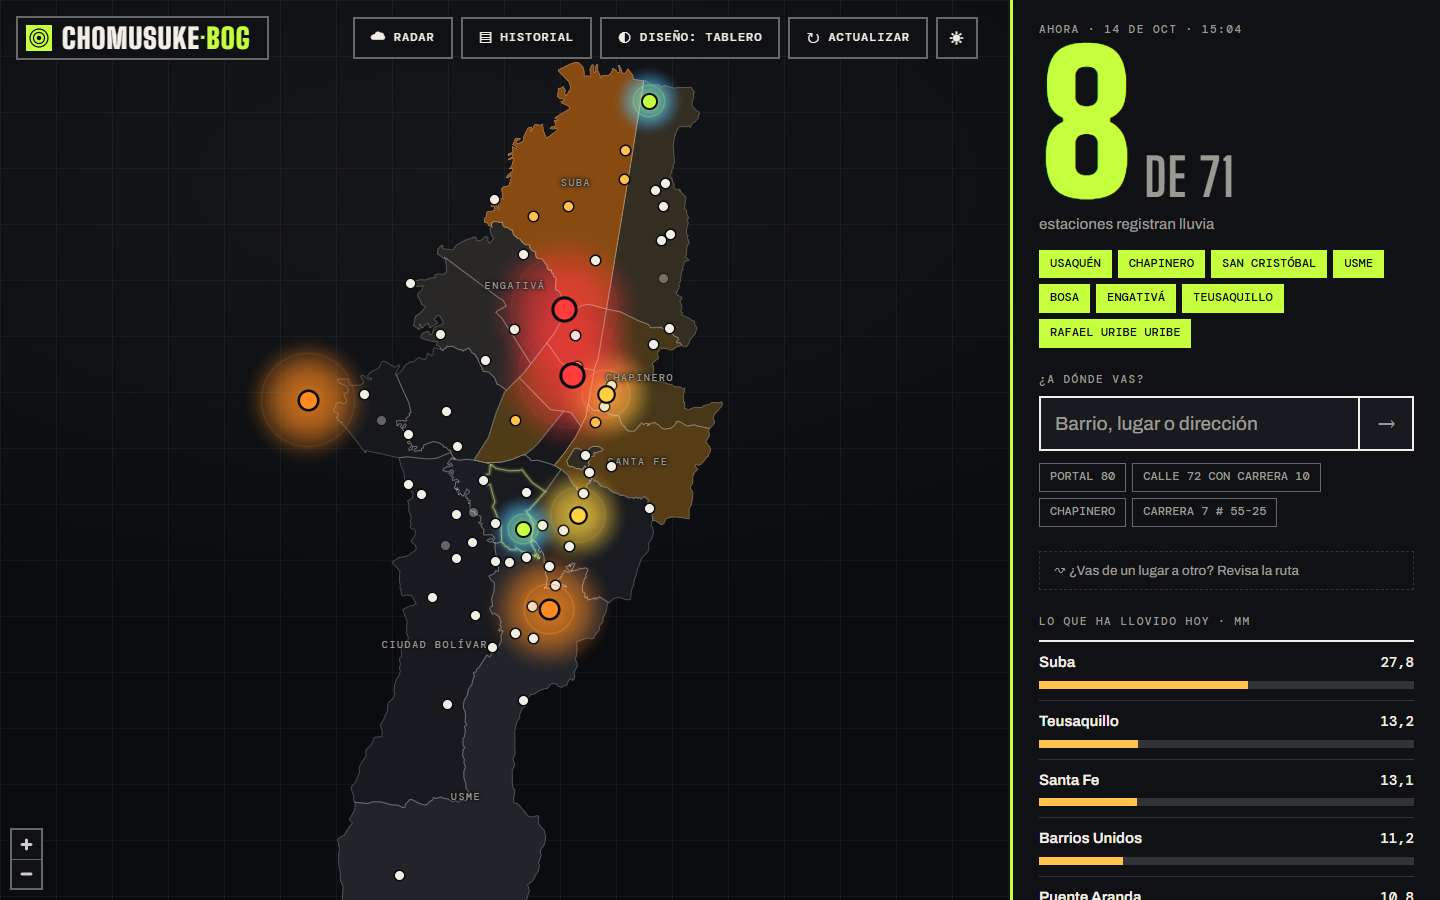
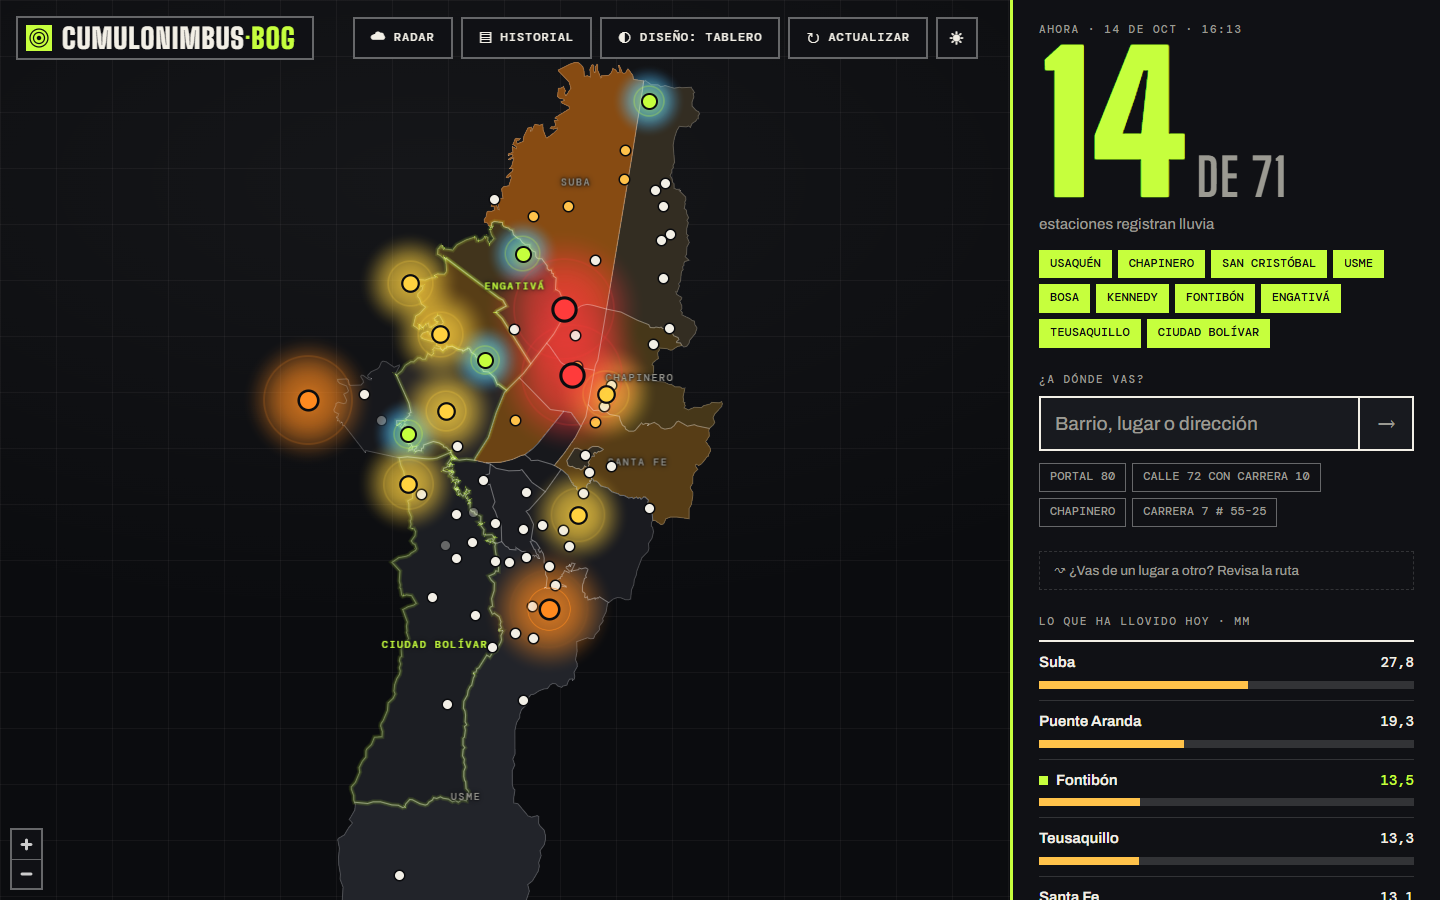
Renombrar el proyecto a Cumulonimbus y ajustar la barra para celulares angostos

diff --git a/frontend/src/disenos/comun.css b/frontend/src/disenos/comun.css
@@ -192,3 +192,13 @@
 @media (prefers-reduced-motion: reduce) {
   .hist-fondo, .hist, .ruta-card { animation: none; }
 }
+
+/* ---------- Barra superior en pantallas angostas ----------
+   El nombre es largo: en el celular se oculta el «·BOG» y el icono de la marca y se achican los botones para que quepan
+   todos (hasta 360 px de ancho). */
+@media (max-width: 560px) {
+  .barra .marca em, .barra .marca svg { display: none; }
+  .barra .marca { font-size: 13px; letter-spacing: 0; padding: 7px 10px; gap: 0; white-space: nowrap; }
+  .barra .barra__acciones { gap: 5px; }
+  .barra .boton, .barra .boton--icono { width: 36px; height: 36px; }
+}

diff --git a/frontend/index.html b/frontend/index.html
@@ -9,7 +9,7 @@
     <link rel="preconnect" href="https://fonts.googleapis.com" />
     <link rel="preconnect" href="https://fonts.gstatic.com" crossorigin />
     <link href="https://fonts.googleapis.com/css2?family=Archivo:wght@400;500;600;700&family=Outfit:wght@300;400;500;600&family=IBM+Plex+Sans:wght@400;500;600&family=IBM+Plex+Mono:wght@400;500&family=Figtree:wght@300;400;500;600&family=Sora:wght@300;400;500;600&family=Big+Shoulders+Display:wght@700;800;900&family=DM+Mono:wght@400;500&display=swap" rel="stylesheet" />
-    <title>Chomusuke</title>
+    <title>Cumulonimbus</title>
   </head>
   <body>
     <div id="root"></div>

diff --git a/frontend/src/components/Barra.tsx b/frontend/src/components/Barra.tsx
@@ -25,7 +25,7 @@ export function Barra({
           <circle cx="16" cy="16" r="8" className="marca__anillo" />
           <circle cx="16" cy="16" r="13" className="marca__anillo marca__anillo--2" />
         </svg>
-        <span>Chomusuke<em>·BOG</em></span>
+        <span>Cumulonimbus<em>·BOG</em></span>
       </h1>
       <div className="barra__acciones">
         {radarDisponible && (

diff --git a/backend/app/config.py b/backend/app/config.py
@@ -26,7 +26,7 @@ class Settings(BaseSettings):
     # Geocodificación (buscador de destinos)
     ideca_api_key: str = ""  # gratuita, la entrega IDECA; sin ella se usa solo Nominatim
     ideca_url: str = "https://catalogopmb.catastrobogota.gov.co/PMBWeb/web/api"
-    nominatim_user_agent: str = "chomusuke/0.1 (consulta de lluvia en Bogota)"
+    nominatim_user_agent: str = "cumulonimbus/0.1 (consulta de lluvia en Bogota)"
     geocoding_timeout_segundos: float = 15
 
     # Rutas (Valhalla, servicio gratuito de OpenStreetMap)

diff --git a/backend/app/main.py b/backend/app/main.py
@@ -1,4 +1,4 @@
-"""Punto de entrada de la API de Chomusuke."""
+"""Punto de entrada de la API de Cumulonimbus."""
 
 import logging
 from contextlib import asynccontextmanager
@@ -33,7 +33,7 @@ async def lifespan(app: FastAPI):
 
 
 app = FastAPI(
-    title="Chomusuke",
+    title="Cumulonimbus",
     description="Lluvia en tiempo real en Bogotá a partir de las estaciones del SAB (IDIGER).",
     version="0.1.0",
     lifespan=lifespan,

diff --git a/README.md b/README.md
@@ -1,8 +1,8 @@
-# Chomusuke
+# Cumulonimbus
 
-**¿Está lloviendo donde voy a estar?** Chomusuke consulta en vivo los pluviómetros del SAB / IDIGER de Bogotá y te lo dice en una frase: dónde llueve ahora, si llueve cerca de un destino, si te va a mojar en tu ruta y cuánto ha llovido antes. Todo sobre un mapa, en el celular o en el computador, y con un histórico propio guardado en PostgreSQL para analizar la lluvia con el tiempo.
+**¿Está lloviendo donde voy a estar?** Cumulonimbus consulta en vivo los pluviómetros del SAB / IDIGER de Bogotá y te lo dice en una frase: dónde llueve ahora, si llueve cerca de un destino, si te va a mojar en tu ruta y cuánto ha llovido antes. Todo sobre un mapa, en el celular o en el computador, y con un histórico propio guardado en PostgreSQL para analizar la lluvia con el tiempo.
 
-![Chomusuke con el diseño Clima, tema claro](docs/img/01-diseno-clima-claro.png)
+![Cumulonimbus con el diseño Clima, tema claro](docs/img/01-diseno-clima-claro.png)
 
 > **Sobre las capturas de este documento.** Cuando escribí esta guía casi no llovía en Bogotá, así que las imágenes que muestran lluvia (zonas de color, radar encendido, el panel «7 de 71») usan **estaciones y ecos de radar simulados** para poder enseñar cómo se ve. Las imágenes del buscador, la ruta, el historial y la documentación de la API usan **datos reales** del momento de la captura.
 
@@ -32,7 +32,7 @@
 
 ## 1. ¿Para qué sirve?
 
-El IDIGER (Instituto Distrital de Gestión de Riesgos y Cambio Climático) mantiene en Bogotá una red de **71 pluviómetros** que reportan cuánta lluvia cae, cada pocos minutos. Esos datos son públicos en la página del SAB, pero están pensados para consultarse estación por estación. Chomusuke los convierte en respuestas:
+El IDIGER (Instituto Distrital de Gestión de Riesgos y Cambio Climático) mantiene en Bogotá una red de **71 pluviómetros** que reportan cuánta lluvia cae, cada pocos minutos. Esos datos son públicos en la página del SAB, pero están pensados para consultarse estación por estación. Cumulonimbus los convierte en respuestas:
 
 | Pregunta | Qué responde la app |
 |---|---|
@@ -122,7 +122,7 @@ Hay que entenderlo bien, porque **el radar mide lluvia en el aire, no en el suel
 
 El botón **«Diseño»** cambia entre cinco estilos visuales y la app recuerda el último. El botón de la luna/sol cambia entre tema claro y oscuro. Funciona igual en computador y en celular: en el celular el panel se vuelve una hoja que sube desde abajo.
 
-![Chomusuke en el celular](docs/img/12-celular.png)
+![Cumulonimbus en el celular](docs/img/12-celular.png)
 
 Los cinco diseños están descritos en la [sección 10](#10-los-cinco-diseños).
 
@@ -260,7 +260,7 @@ Esto genera `frontend/dist`, que el backend sirve solo. (Si usas el acceso direc
 
 ### 4.7 Arrancar
 
-**Forma fácil (Windows):** doble clic en **`Abrir Chomusuke.bat`**. Compila el frontend si falta, abre el navegador en http://localhost:8000 y levanta el backend (aplicando antes las migraciones de la base de datos).
+**Forma fácil (Windows):** doble clic en **`Abrir Cumulonimbus.bat`**. Compila el frontend si falta, abre el navegador en http://localhost:8000 y levanta el backend (aplicando antes las migraciones de la base de datos).
 
 **Forma manual:**
 
@@ -546,7 +546,7 @@ Chomusuke_cloud/
 │       ├── lib/                   # API, formatos, geometría, lluvia animada, filtro del radar
 │       └── disenos/               # Un CSS por diseño + paletas del mapa
 ├── docs/img/                      # Capturas de este README
-├── Abrir Chomusuke.bat            # Un clic: compila el frontend si falta y abre la app
+├── Abrir Cumulonimbus.bat            # Un clic: compila el frontend si falta y abre la app
 ├── .env.example                   # Plantilla de configuración
 └── README.md
 ```
@@ -611,7 +611,7 @@ Para no engañarte con lo que muestra la app:
 - **El radar ve lluvia en el aire.** Puede mostrar lluvia que no llega al suelo, y sus colores no están calibrados contra los pluviómetros: la equivalencia entre color e intensidad es orientativa.
 - **Las zonas de color son una estimación visual** alrededor de cada estación; no hay medición entre estaciones.
 - **La ruta usa la lluvia de ahora,** no un pronóstico de lo que pasará cuando llegues.
-- **No es un pronóstico.** Chomusuke dice lo que está pasando y lo que pasó, no lo que va a pasar.
+- **No es un pronóstico.** Cumulonimbus dice lo que está pasando y lo que pasó, no lo que va a pasar.
 - **El histórico empieza cuando el servidor se enciende por primera vez.** No hay datos anteriores (importar datos históricos del IDEAM está en la hoja de ruta).
 
 ---
@@ -620,10 +620,10 @@ Para no engañarte con lo que muestra la app:
 
 | Síntoma | Causa probable y solución |
 |---|---|
-| `Abrir Chomusuke.bat` abre una página que no carga | El servidor tarda unos segundos en arrancar: recarga la página. Si sigue, mira la ventana negra por errores. |
+| `Abrir Cumulonimbus.bat` abre una página que no carga | El servidor tarda unos segundos en arrancar: recarga la página. Si sigue, mira la ventana negra por errores. |
 | Error de conexión a la base (`password authentication failed`, `connection refused`) | PostgreSQL apagado, o el `DATABASE_URL` del `.env` no coincide con tu usuario, contraseña, puerto o nombre de base. |
 | `/api/health` dice que la base falla | Igual que el anterior; verifica que `psql` entra con esos mismos datos. |
-| Veo una versión vieja de la app | Hay un servidor antiguo ocupando el puerto 8000. Cierra su ventana, abre `Abrir Chomusuke.bat` y recarga con **Ctrl+F5**. |
+| Veo una versión vieja de la app | Hay un servidor antiguo ocupando el puerto 8000. Cierra su ventana, abre `Abrir Cumulonimbus.bat` y recarga con **Ctrl+F5**. |
 | El historial dice «Aún hay pocos datos» | Es normal al empezar: el histórico solo se llena mientras el servidor está encendido. |
 | La app no registra la lluvia que estoy viendo | Mira [Límites que debes conocer](#14-límites-que-debes-conocer): la estación más cercana puede estar lejos o no haber registrado todavía una llovizna fina. Prueba con «Actualizar» y el radar. |
 | Error 502 «El SAB no está respondiendo» | El servicio del SAB está caído o lento. Intenta de nuevo en unos minutos. |
